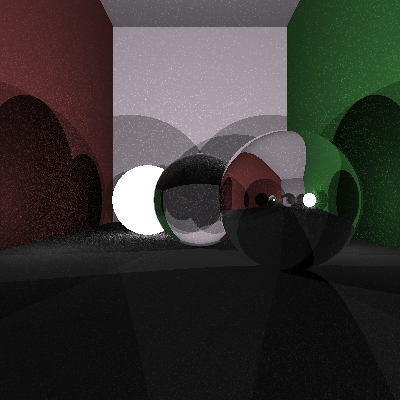
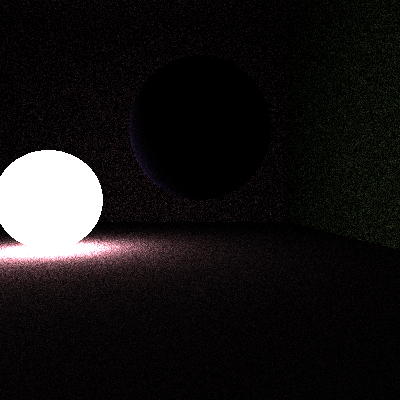
did hemisphere n stuff.

diff --git a/tests/final_scene.py b/tests/final_scene.py
@@ -14,7 +14,7 @@ FLOOR_HEIGHT = -1
 LEFT_RIGHT_DIST = 1
 
 # Light Parameters
-LIGHT_INTENSITY = 0.2
+LIGHT_INTENSITY = 0
 NUM_EDGE_LIGHTS = 2
 
 def gen():
@@ -34,25 +34,40 @@ def gen():
     f.write('Material "MirrorMat" Reflective (1, 1, 1) 1\n')
 
     f.write('Material "WhiteEmissive" Emissive (1, 1, 1) 1\n')
+    f.write('Material "RedEmissive" Emissive (1, 0.5, 0.6) 1\n')
 
     # BIG MARBLES
-    f.write('Sphere "BigBoi1" (-1.5, 0, 10) 1 "WhiteEmissive"\n')
-    f.write('Sphere "BigBoi2" (0, 0, 7.5) 1 "GlassMat"\n')
-    f.write('Sphere "BigBoi3" (1.25, 0, 5) 1 "MirrorMat"\n')
+    f.write('Sphere "TestSphere1" (0, 1, 5) 1 "BlueMat"\n')
+    f.write('Sphere "TestSphere2" (-3, 0, 7) 1 "WhiteEmissive"\n')
 
-    f.write('Sphere "BigBoi4" (3, 0, -1) 1 "WhiteMat"\n')
-    f.write('Sphere "BigBoi5" (0, 0, -1) 1 "GlassMat"\n')
-    f.write('Sphere "BigBoi6" (-3, 0, -1) 1 "MirrorMat"\n')
+    #f.write('Sphere "BigBoi1" (-1.5, 0, 10) 1 "WhiteEmissive"\n')
+    #f.write('Sphere "BigBoi2" (0, 0, 7.5) 1 "GlassMat"\n')
+    #f.write('Sphere "BigBoi3" (1.25, 0, 5) 1 "MirrorMat"\n')
+    #f.write('Sphere "BigBoi4" (3, 0, -1) 1 "WhiteMat"\n')
+    #f.write('Sphere "BigBoi5" (0, 0, -1) 1 "GlassMat"\n')
+    #f.write('Sphere "BigBoi6" (-3, 0, -1) 1 "MirrorMat"\n')
 
     # BOX
-    sideLenAdj = SIDE_LEN - MARBLE_RADIUS
     f.write('Plane "Floor" (0, -1, 0) (0, 1, 0) "lightGreyMat"\n')
-    f.write('Plane "Roof" (0, ' + str(sideLenAdj) + ', 0) (0, -1, 0) "WhiteMat"\n')
-    f.write('Plane "BackWall" (0, 0, ' + str(sideLenAdj * 2) + ') (0, 0, -1) "WhiteMat"\n')
-    f.write('Plane "BehindWall" (0, 0, -' + str(sideLenAdj) + ') (0, 0, 1) "WhiteMat"\n')
-    f.write('Plane "Left" (-' + str(sideLenAdj / 2) + ', 0, 0) (1, 0, 0) "RedMat"\n')
-    f.write('Plane "Right" (' + str(sideLenAdj / 2) + ', 0, 0) (-1, 0, 0) "GreenMat"\n')
+    f.write('Plane "Roof" (0, ' + str(SIDE_LEN) + ', 0) (0, -1, 0) "WhiteMat"\n')
+    f.write('Plane "BackWall" (0, 0, ' + str(SIDE_LEN * 2) + ') (0, 0, -1) "WhiteMat"\n')
+    f.write('Plane "BehindWall" (0, 0, -' + str(SIDE_LEN) + ') (0, 0, 1) "WhiteMat"\n')
 
+    leftA0 = '(-' + str(SIDE_LEN / 2) + ', -1, -' + str(SIDE_LEN * 2) + ')'
+    leftA1 = '(-' + str(SIDE_LEN / 2) + ', ' + str(SIDE_LEN) + ', -' + str(SIDE_LEN) + ')'
+    leftA2 = '(-' + str(SIDE_LEN / 2) + ', ' + str(SIDE_LEN) + ', -' + str(SIDE_LEN * 2) + ')'
+
+    leftB0 = '(-' + str(SIDE_LEN / 2) + ', -1, -' + str(SIDE_LEN) + ')'
+    leftB1 = '(-' + str(SIDE_LEN / 2) + ', ' + str(SIDE_LEN) + ', -' + str(SIDE_LEN) + ')'
+    leftB2 = '(-' + str(SIDE_LEN / 2) + ', -1, -' + str(SIDE_LEN * 2) + ')'
+
+    f.write('Triangle "LeftA" ' + leftA0 + leftA1 + leftA2 + ' "RedEmissive"\n')
+    f.write('Triangle "LeftB" ' + leftB0 + leftB1 + leftB2 + '  "RedEmissive"\n')
+    #f.write('Plane "Left" (-' + str(sideLenAdj / 2) + ', 0, 0) (1, 0, 0) "RedMat"\n')
+
+    f.write('Plane "Right" (' + str(SIDE_LEN / 2) + ', 0, 0) (-1, 0, 0) "GreenMat"\n')
+
+    sideLenAdj = SIDE_LEN - MARBLE_RADIUS
     lightIntensityStr = '(' + str(LIGHT_INTENSITY) + ', ' + str(LIGHT_INTENSITY) + ', ' + str(LIGHT_INTENSITY) + ')'
     f.write('PointLight "Light1" (-' + str((sideLenAdj / 2) - 1) + ', 0.01, ' + str(sideLenAdj - 1) + ') ' + lightIntensityStr + '\n')
     f.write('PointLight "Light2" (' + str((sideLenAdj / 2) - 1) + ', 0.01, ' + str(sideLenAdj - 1) + ') ' + lightIntensityStr + '\n')
@@ -66,13 +81,13 @@ def gen():
         z = random.uniform(-SIDE_LEN, SIDE_LEN)
 
         mattype = ""
-        mat = random.randint(0, 2)
+        mat = random.randint(0, 1)
         if mat == 0:
-            mattype = "WhiteEmissive"
+            mattype = "MirrorMat"
         elif mat == 1:
             mattype = "GlassMat"
         elif mat == 2:
-            mattype = "MirrorMat"
+            mattype = "WhiteEmissive"
 
         f.write('Sphere "Marble' + str(i) + '" (' + str(x) + ', ' + str(marbleHeight) + ',' + str(z) + ') ' + str(MARBLE_RADIUS) + ' "' + mattype + '"\n')
 

diff --git a/src/scene/primitives/Sphere.cs b/src/scene/primitives/Sphere.cs
@@ -1,4 +1,5 @@
 using System;
+using System.Collections.Generic;
 
 namespace RayTracer
 {
@@ -54,9 +55,53 @@ namespace RayTracer
             return new RayHit(pos, norm, ray.Direction, this.material);
         }
 
-        public Ray[] ConeSamples(Vector3 shadowPoint)
+        public Ray[] ShadowSamples(RayHit shadowRh, int rayMultiplier)
         {
-            return null;
+            double sideLen = this.radius * 2.0f;
+            Vector3 centerPos = this.center;
+            Vector3 centerRayDir = (centerPos - shadowRh.Position).Normalized();
+
+            Mat3 transform = new Mat3(new Vector3(0.0f, 0.0f, 0.0f), new Vector3(0.0f, 0.0f, 0.0f), new Vector3(0.0f, 0.0f, 0.0f));
+
+            if (centerRayDir.X.Equals(0.0f) && centerRayDir.Z.Equals(0.0f))
+            {
+                if (centerRayDir.Y < 0.0f)
+                {
+                    Vector3 row0 = new Vector3(-1.0f, 0.0f, 0.0f);
+                    Vector3 row1 = new Vector3(0.0f, -1.0f, 0.0f);
+                    Vector3 row2 = new Vector3(0.0f, 0.0f, 1.0f);
+                    transform = new Mat3(row0, row1, row2);
+                }
+            }
+            else
+            {
+                Vector3 newY = centerRayDir.Normalized();
+                Vector3 newZ = newY.Cross(new Vector3(0.0f, 1.0f, 0.0f)).Normalized();
+                Vector3 newX = newY.Cross(newZ).Normalized();
+                transform = new Mat3(newX, newY, newZ);
+            }
+
+            Vector2[,] dirGrid = new Vector2[rayMultiplier, rayMultiplier];
+            double increment = 1.0f / (rayMultiplier + 1);
+            for (int i = 0; i < rayMultiplier; i++)
+                for (int j = 0; j < rayMultiplier; j++)
+                    dirGrid[i, j] = new Vector2(increment * (1 + i), increment * (1 + j));
+
+            List<Ray> rays = new List<Ray>();
+            foreach (Vector2 offset in dirGrid)
+            {
+                double x = offset.X / sideLen * 2;
+                double y = offset.Y / sideLen * 2;
+                double z = 1.0f;
+
+                double x_adj = (x * 2.0f) - sideLen;
+                double y_adj = sideLen - (y * 2.0f);
+
+                Vector3 initVector = new Vector3(x, y, z);
+
+                rays.Add(new Ray(shadowRh.Position, initVector));
+            }
+            return rays.ToArray();
         }
 
 

diff --git a/src/scene/Scene.cs b/src/scene/Scene.cs
@@ -17,6 +17,7 @@ namespace RayTracer
 
         private const double FOV = 60.0f;
         private const int MAX_DEPTH = 10;
+        private const int SHADE_SAMPLES = 50;
 
         private SceneOptions options;
         private ISet<SceneEntity> entities;
@@ -145,24 +146,25 @@ namespace RayTracer
                 {
                     if (!(e.Material.Type == Material.MaterialType.Emissive)) continue;
 
-                    int samplenum = 10;
-                    for (int i = 0; i < samplenum; i++)
+                    for (int i = 0; i < SHADE_SAMPLES; i++)
                     {
                         // Ray to point light hit.
-                        Vector3 lightDir = Vector3.RandomNormSphere();
+                        Vector3 lightDir = Vector3.RandomHemisphere(sourceRh.Normal);
                         Ray shadowRay = new Ray(sourceRh.Position, lightDir).Offset();
                         RayHit shadowRh = ClosestHit(shadowRay);
 
                         // If the current ray (r) is NOT in shadow (ray from intersection to light is blocked by entity).
                         if (shadowRh != null && shadowRh.Material.Type != Material.MaterialType.Emissive) continue;
 
-                        diffuseColor += (sourceRh.Normal.Normalized().Dot(lightDir) * sourceRh.Material.Color * e.Material.Color) * (1.0f / samplenum);
+                        diffuseColor += (sourceRh.Normal.Normalized().Dot(lightDir) * sourceRh.Material.Color * e.Material.Color) * (1.0f / SHADE_SAMPLES) * 3.0f;
                     }
                 }
             }
 
             return emissiveColor + diffuseColor + reflectColor + refractColor;
         }
+
+
 
         /// <summary>
         /// Finds the nearest hit point to the ray origin.

diff --git a/src/scene/primitives/Triangle.cs b/src/scene/primitives/Triangle.cs
@@ -74,11 +74,11 @@ namespace RayTracer
         /// entity. The rays are encapsulated inside a cone.
         /// Code adapted from: https://stackoverflow.com/questions/20923232/how-to-rotate-a-vector-by-a-given-direction
         /// </summary>
-        public Ray[] ConeSamples(Ray shadowRay)
+        public Ray[] ShadowSamples(RayHit shadowRh, int rayMultiplier)
         {
             double sideLen = 0.0f; // TODO: this is smelly.
             Vector3 centerPos = CenterPos(ref sideLen);
-            Vector3 centerRayDir = (centerPos - shadowRay.Origin).Normalized();
+            Vector3 centerRayDir = (centerPos - shadowRh.Position).Normalized();
 
             Mat3 transform = new Mat3(new Vector3(0.0f, 0.0f, 0.0f), new Vector3(0.0f, 0.0f, 0.0f), new Vector3(0.0f, 0.0f, 0.0f));
 
@@ -100,7 +100,6 @@ namespace RayTracer
                 transform = new Mat3(newX, newY, newZ);
             }
 
-            int rayMultiplier = 4;
             Vector2[,] dirGrid = new Vector2[rayMultiplier, rayMultiplier];
             double increment = 1.0f / (rayMultiplier + 1);
             for (int i = 0; i < rayMultiplier; i++)
@@ -115,7 +114,7 @@ namespace RayTracer
                 double z = 1.0f;
                 Vector3 initVector = new Vector3(x, y, z);
 
-                rays.Add(new Ray(shadowRay.Origin, transform * initVector));
+                rays.Add(new Ray(shadowRh.Position, transform * initVector));
             }
             return rays.ToArray();
         }

diff --git a/src/math/Vector3.cs b/src/math/Vector3.cs
@@ -199,6 +199,21 @@ namespace RayTracer
             }
         }
 
+
+        /// <summary>
+        /// From: https://raytracing.github.io/books/RayTracingInOneWeekend.html
+        /// </summary>
+        public static Vector3 RandomHemisphere(Vector3 norm)
+        {
+            while (true)
+            {
+                Vector3 p = Random(-1.0f, 1.0f);
+                if (p.LengthSq() >= 1.0f) continue;
+                if (norm.Dot(p) < 0.0f) continue;
+                return p.Normalized();
+            }
+        }
+
         public static Vector3 Offset(Vector3 pos, Vector3 dir)
         {
             return pos + (OFFSET * dir);

diff --git a/src/scene/SceneEntity.cs b/src/scene/SceneEntity.cs
@@ -33,7 +33,7 @@ namespace RayTracer
             return Color.Black();
         }
 
-        Ray[] ConeSamples(Vector3 shadowPoint)
+        public Ray[] ShadowSamples(RayHit shadowRh, int rayMultiplier)
         {
             return null;
         }

diff --git a/src/math/Mat3.cs b/src/math/Mat3.cs
@@ -26,6 +26,8 @@ namespace RayTracer
             return new Vector3(u, v, w);
         }
 
+        //public 
+
         public override string ToString()
         {
             return "(" + this.row0 + "," + this.row1 + "," + this.row2 + ")";
